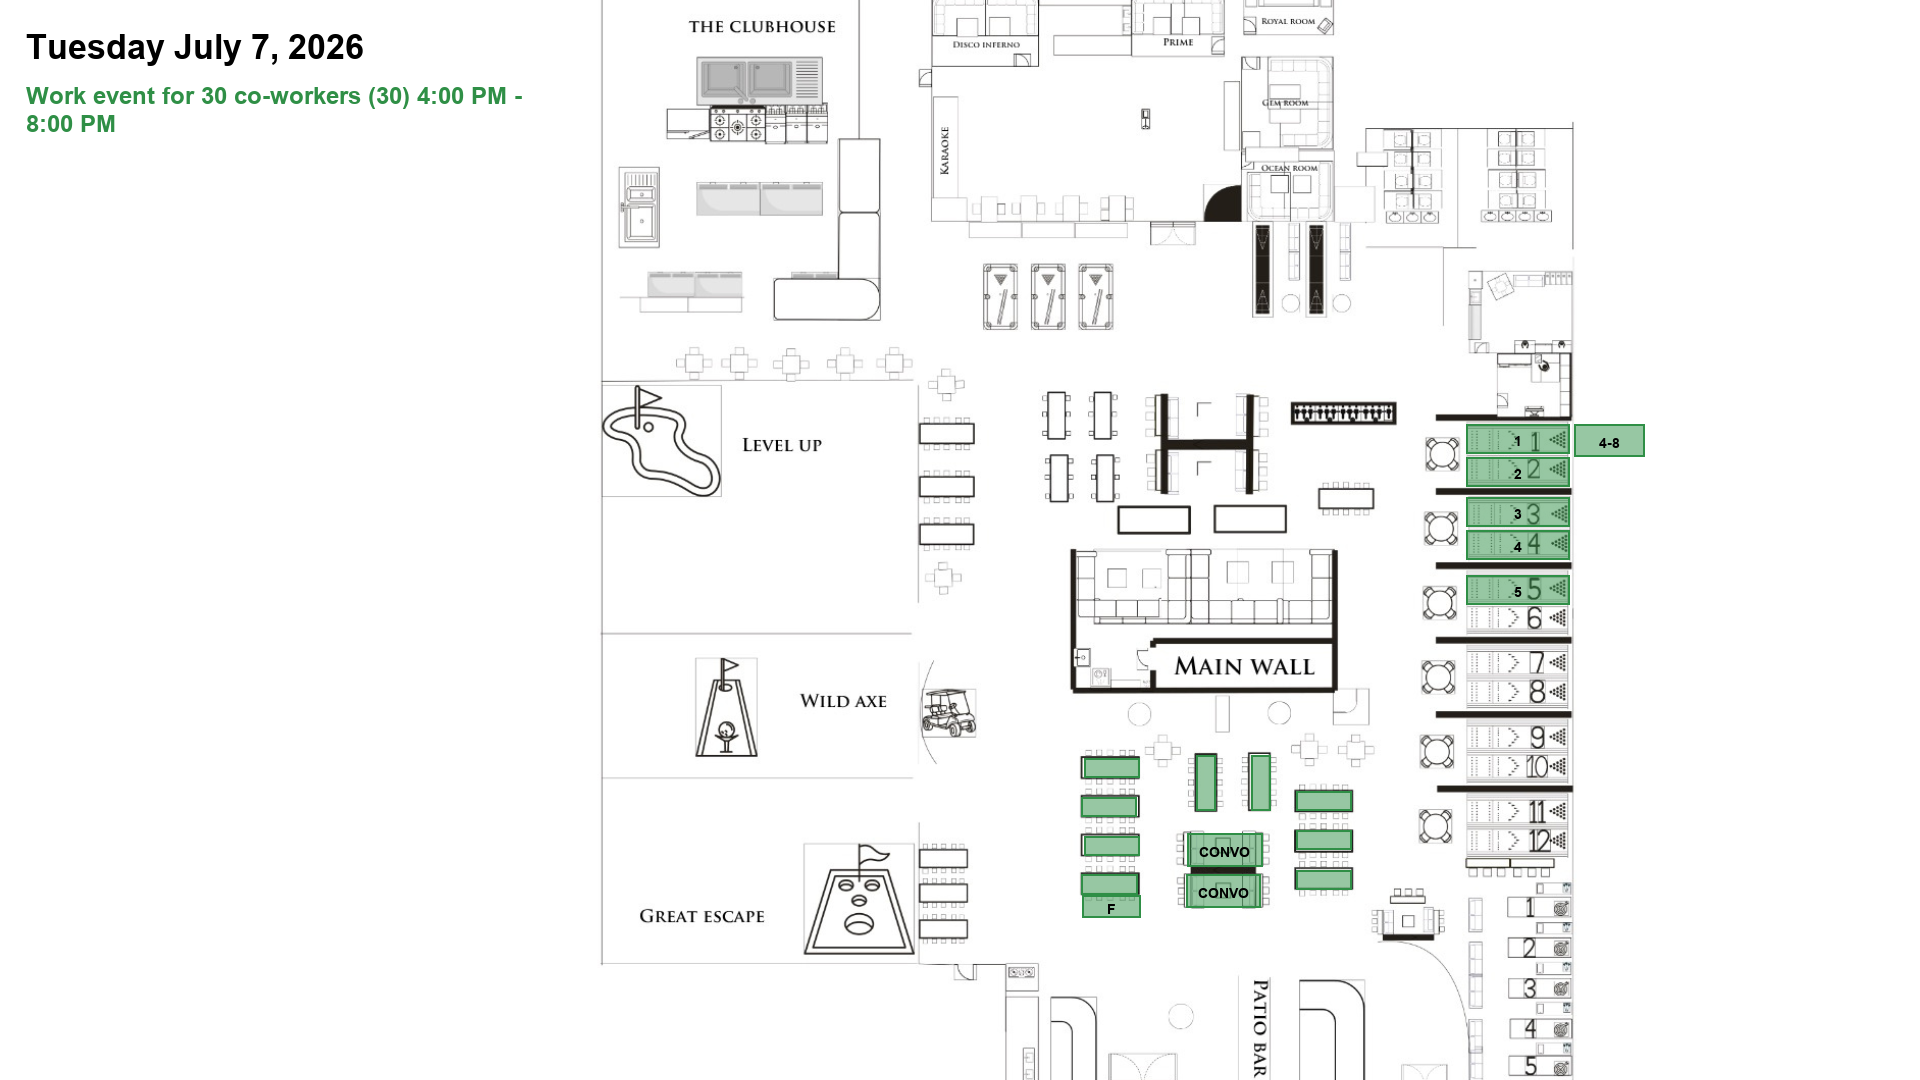
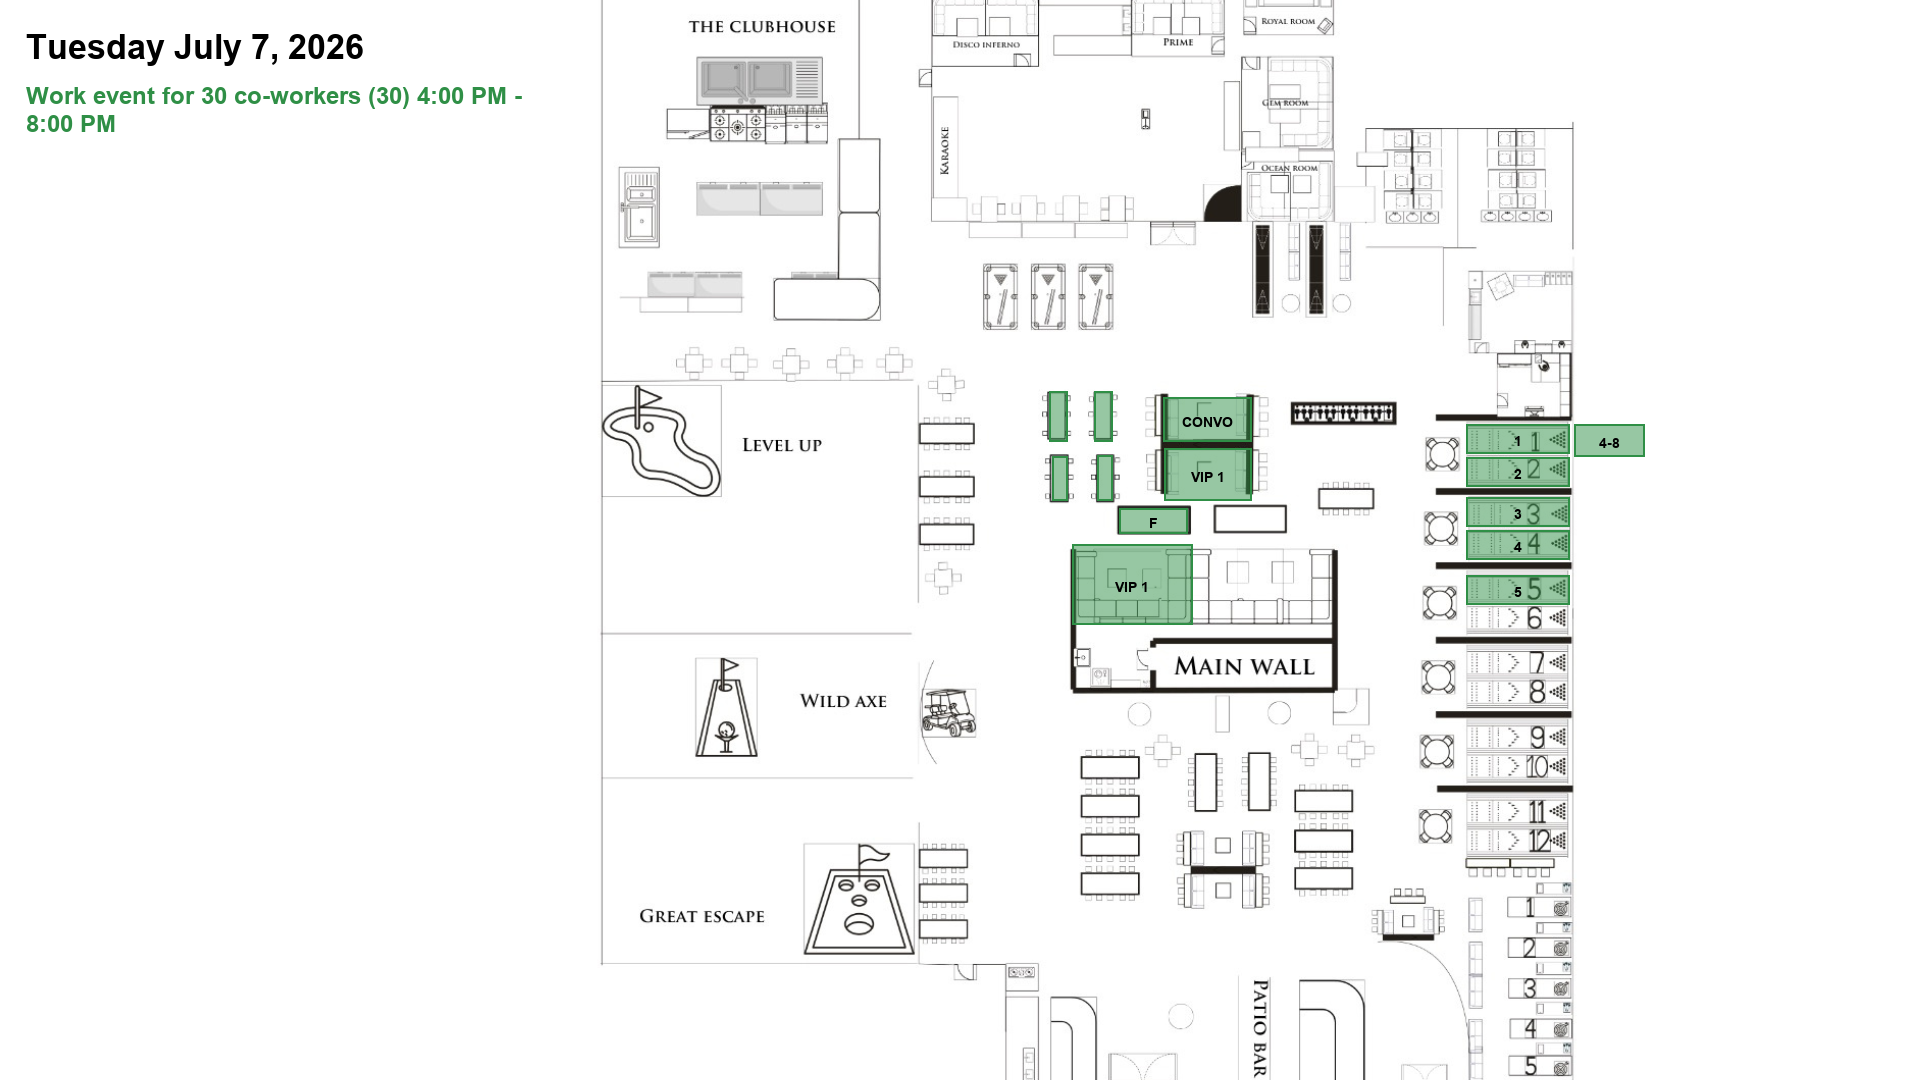
Update On Par July 7 and July 9 host plans

Changed region(s): [[0.5312, 0.3667, 0.6562, 0.5806], [0.5625, 0.7028, 0.7188, 0.8556]]

diff --git a/docs/on-par-events-knowledge-base.md b/docs/on-par-events-knowledge-base.md
@@ -2,7 +2,7 @@
 
 Informational knowledge base for event request, booking, planning, and event-output agents.
 
-Last updated: June 25, 2026
+Last updated: July 1, 2026
 
 ## What This Document Is
 
@@ -720,7 +720,7 @@ This matrix summarizes the current deployable event data. Always re-check Triple
 
 - Date/time: Tuesday, July 7, 2026, 4:00 PM - 8:00 PM
 - Guests: 30
-- Area: Main Dining Room
+- Area: VIP 1
 - Food:
   - The Full Course - Food + Beverage
   - Premium Taco Bar
@@ -733,17 +733,18 @@ This matrix summarizes the current deployable event data. Always re-check Triple
   - Mini Golf, 30 guests, Untimed, 9 holes
 - Special instructions:
   - Need to start around 4:00 PM and end by 8:00 PM.
+  - VIP 1 is listed in the current BEO event summary.
 - Floor-plan interpretation:
-  - Highlight Main Dining Room seating and 1 main food table.
+  - Highlight VIP 1 full support seating and 1 VIP food table.
   - Highlight bowling lanes 1-5 and label 4-8.
   - Mini golf is untimed and does not need a time label.
-- Verification: BEO checked above billing section.
+- Verification: BEO checked above billing section; room assignment updated to VIP 1.
 
 ### LexisNexis Government Markets Meeting
 
 - Date/time: Thursday, July 9, 2026, 6:30 PM - 8:30 PM
 - Guests: 100
-- Area: Main Dining Room
+- Areas: VIP 1, VIP 2
 - Food:
   - The Full Course | TACO BAR - Food + Beverage
   - Veggie Tray
@@ -757,11 +758,13 @@ This matrix summarizes the current deployable event data. Always re-check Triple
   - Prime Room, 1 room, 7:00 PM - 9:00 PM, 2 hours
 - Special instructions:
   - Booking description asks for bowling, karaoke, and add-on activities for the team.
+  - VIP 1 and VIP 2 are listed in the current BEO event summary.
+  - VIP 1 and VIP 2 do not provide seated capacity for 100 guests; confirm overflow seating approach if operations needs a full seating map.
 - Floor-plan interpretation:
-  - Highlight Main Dining Room seating and 1 main food table.
+  - Highlight VIP 1 and VIP 2 support seating plus both VIP food tables.
   - Highlight bowling lanes 1-7, pool tables 1-3, and shuffleboard tables 1-2 with 2-hour labels.
   - Highlight Prime Room and label 7-9.
-- Verification: BEO checked above billing section.
+- Verification: BEO checked above billing section; room assignment updated to VIP 1 and VIP 2.
 
 ### Oculii
 
